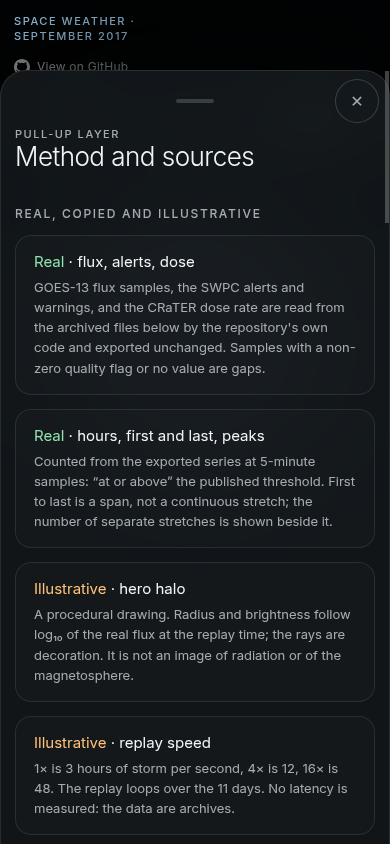
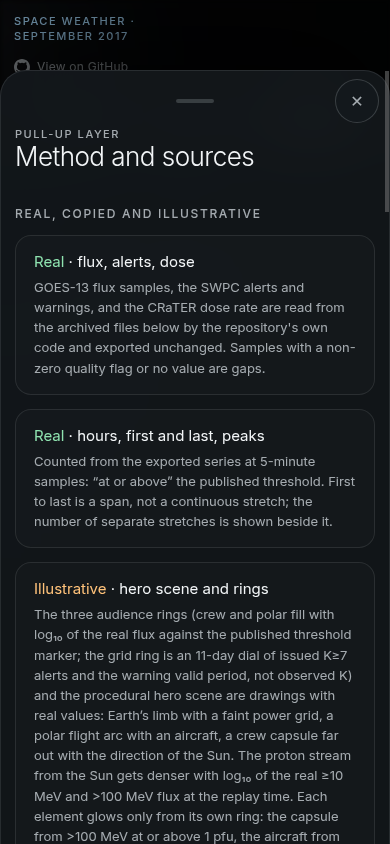
space-weather: return focus to the card trigger, one slot-aligned time for every readout, exact CRaTER maximum; tests and refreshed screenshots

diff --git a/space-weather/web/test_behaviour.js b/space-weather/web/test_behaviour.js
@@ -51,6 +51,49 @@ async function fresh(b,url,ms){await b.goto('about:blank',150);await b.goto(url,
   ok(await b.ev(`document.querySelector('#sheet').hasAttribute('inert')&&document.querySelector('#method').classList.contains('open')`),'card under an open layer is inert');
   await b.ev(`document.querySelector('#method .x').click()`); await sleep(900);
   ok(await b.ev(`(()=>{const s=document.querySelector('#sheet');return s.classList.contains('open')&&!s.hasAttribute('inert')})()`),'closing the layer returns to a live card');
+  // ---- focus returns to the trigger inside an audience card when a layer opened from it is closed (card was inert underneath)
+  for(const id of ['timeline','alerts','method']){
+    await fresh(b,FILE+'#?paused');
+    await b.ev(`document.querySelector('.aud[data-aud="crew"]').click()`); await sleep(800);
+    const sel=`#sheet [data-open="${id}"]`;
+    const has=await b.ev(`!!document.querySelector('${sel}')`);
+    if(!has){console.log('skip: no '+id+' trigger in the card');continue}
+    for(const how of ['x','scrim','escape']){
+      await b.ev(`document.querySelector('${sel}').focus();document.querySelector('${sel}').click()`); await sleep(800);
+      ok(await b.ev(`document.querySelector('#sheet').hasAttribute('inert')&&document.querySelector('#${id}').classList.contains('open')`),id+' from the card ('+how+'): card is inert while the layer is open');
+      if(how==='x')await b.ev(`document.querySelector('#${id} .x').click()`);
+      else if(how==='scrim')await b.ev(`document.querySelector('#scrim').click()`);
+      else{await b.send('Input.dispatchKeyEvent',{type:'keyDown',key:'Escape',code:'Escape',windowsVirtualKeyCode:27});await b.send('Input.dispatchKeyEvent',{type:'keyUp',key:'Escape',code:'Escape',windowsVirtualKeyCode:27})}
+      await sleep(800);
+      ok(await b.ev(`document.activeElement===document.querySelector('${sel}')&&!document.querySelector('#sheet').hasAttribute('inert')`),id+' closed with '+how+': focus is back on the card trigger and the card is live again');
+    }
+  }
+  // ---- the scrim is visible and clickable while a layer is open, and clicking the gutter dismisses it
+  await fresh(b,FILE+'#?paused');
+  ok(await b.ev(`(()=>{const s=getComputedStyle(document.querySelector('#scrim'));return +s.opacity===0&&s.pointerEvents==='none'})()`),'scrim is invisible and not clickable with no layer open');
+  for(const id of ['timeline','alerts','method']){
+    await b.ev(`document.querySelector('.nav button[data-v="${id}"]').click()`); await sleep(900);
+    const sc=await b.ev(`(()=>{const s=getComputedStyle(document.querySelector('#scrim')),r=document.querySelector('#${id}').getBoundingClientRect();return {o:+s.opacity,pe:s.pointerEvents,gx:Math.floor(r.left/2),top:document.elementFromPoint(Math.max(2,Math.floor(r.left/2)),450)===document.querySelector('#scrim'),left:r.left}})()`);
+    ok(sc.o===1&&sc.pe==='auto'&&sc.left>20&&sc.top,id+': scrim is visible (opacity 1), clickable and is the element in the gutter '+JSON.stringify(sc));
+    await b.send('Input.dispatchMouseEvent',{type:'mousePressed',x:sc.gx,y:450,button:'left',clickCount:1});await b.send('Input.dispatchMouseEvent',{type:'mouseReleased',x:sc.gx,y:450,button:'left',clickCount:1}); await sleep(900);
+    ok(await b.ev(`!document.querySelector('#${id}').classList.contains('open')&&!document.body.classList.contains('layer-open')`),id+': a real click in the gutter dismisses the layer');
+  }
+  // ---- one slot-aligned time for the label, flux rings, grid ring and scene (alerts flip exactly on a slot boundary)
+  const storm=JSON.parse(require('fs').readFileSync(path.resolve(__dirname,'data/storm.json'),'utf8'));
+  const T0=Date.parse(storm.series.t0), STEP=storm.series.step_seconds, iss=storm.alerts.grid_issued.map(a=>(Date.parse(a.start)-T0)/1000);
+  const first=iss[0]; const hh=[first/3600-0.2,first/3600-0.1,95.4,first/3600+0.02,iss[1]/3600-0.03,iss[1]/3600+0.03,iss[2]/3600-0.01,iss[2]/3600+0.04];
+  for(const h of hh){
+    await fresh(b,FILE+'#?h='+h.toFixed(4)+'&paused',700);
+    const raw=Math.max(0,Math.min(storm.series.slots*STEP,h*3600)), slot=Math.min(storm.series.slots-1,Math.round(raw/STEP)), ts=slot*STEP, expect=iss.filter(t=>t<=ts).length;
+    const got=await b.ev(`(()=>{const g=document.querySelector('.aud[data-aud="grid"]');return {ring:+g.dataset.value,lit:__weather.scene.grid.lit,label:document.querySelector('#r-time').textContent,t:__weather.t}})()`);
+    const lab=new Date(T0+ts*1000).toISOString().slice(0,16);
+    ok(got.ring===expect&&got.lit===expect&&got.label.replace(' ','T').slice(0,16)===lab,'?h='+h.toFixed(3)+': ring '+got.ring+', scene '+got.lit+', label '+got.label+' all agree with slot time (expected '+expect+' alerts at '+lab+')');
+  }
+  await fresh(b,FILE+'#?h=95.4&paused',700);
+  ok(await b.ev(`document.querySelector('#r-time').textContent.startsWith('2017-09-07 23:25')&&document.querySelector('.aud[data-aud="grid"]').dataset.value==='1'`),'?h=95.4: the label shows 23:25 and the grid ring already counts the first K>=7 alert');
+  // ---- CRaTER maximum is shown without rounding away the .75
+  await b.ev(`document.querySelector('.aud[data-aud="crew"]').click()`); await sleep(800);
+  ok(await b.ev(`document.querySelector('#sheet').textContent.includes('22,968.75')&&!document.querySelector('#sheet').textContent.includes('22,969')`),'crew card shows the CRaTER maximum as 22,968.75 µGy/h, not 22,969');
   // ---- playback: advances, speeds differ, pause holds, loop wraps and reaches the last sample
   await fresh(b,FILE+'#?h=0');
   const t1=await b.ev('__weather.t'); await sleep(1500); const t2=await b.ev('__weather.t');

diff --git a/space-weather/web/index.html b/space-weather/web/index.html
@@ -306,6 +306,7 @@ var MON=['Jan','Feb','Mar','Apr','May','Jun','Jul','Aug','Sep','Oct','Nov','Dec'
 
 /* ---------------- data access (n/a-safe) ---------------- */
 function slotAt(t){return Math.max(0,Math.min(SLOTS-1,Math.round(t/STEP)))}
+function snap(t){return SLOTS?slotAt(t)*STEP:t} // every readout and the scene use the nearest 5-minute slot, never the raw clock
 function fluxAt(arr,t){if(!SLOTS)return null; var v=arr[slotAt(t)]; return ok(v)?v:null}
 function doseAt(t){ // last CRaTER sample at or before t; null if none within 2 h
   var lo=0,hi=DT.length-1,best=-1; while(lo<=hi){var m=(lo+hi)>>1; if(DT[m]<=t){best=m;lo=m+1}else hi=m-1}
@@ -328,11 +329,12 @@ function setSeg(){var s=clock.speed,bs=$$('#seg button'),on=bs.filter(function(b
 /* ---------------- readouts ---------------- */
 function setT(id,html){var e=$('#'+id); if(e._h!==html){e._h=html;e.innerHTML=html}}
 function readouts(t,pfx){
+  t=snap(t);
   var f10=fluxAt(G10,t), f100=fluxAt(G100,t), d=doseAt(t);
   var tm=iso(T0+slotAt(t)*STEP*1000);
   if(pfx==='r'){setT('r-time',SLOTS?tm:NA);setT('stamp',SLOTS?tm.replace('Z',' UTC'):'n/a');setT('r-dose-age',d?'· sample '+Math.round(d.age/60)+' min earlier':'');}
   else setT('t-time',SLOTS?tm:NA);
-  setT(pfx+'-f10',fnum(f10));setT(pfx+'-f100',fnum(f100));setT(pfx+'-dose',d?fnum(d.v):NA);
+  setT(pfx+'-f10',fnum(f10));setT(pfx+'-f100',fnum(f100));setT(pfx+'-dose',d?fnum(d.v,Math.abs(d.v)>=1000?2:null):NA);
 }
 var hoverT=null;
 function tick(t){
@@ -494,7 +496,7 @@ function substations(){var gp=LY.gp,out=[],n=7,wd=gp.r.r-gp.r.l-30;
   for(var i=0;i<n;i++){var x=gp.r.l+15+wd*(i+.5)/n+(rnd(i+70)-.5)*8; var y=limbY(x)+Math.max(10,gp.dy+8)+ (i%3)*9 + rnd(i+80)*8; out.push({x:x,y:Math.min(gp.r.b-8,y)})}
   return out}
 function drawHero(t){
-  if(!LY)return; var c=hc, ph=(REDUCED||STATIC)?.37:performance.now()/1000;
+  if(!LY)return; t=snap(t); var c=hc, ph=(REDUCED||STATIC)?.37:performance.now()/1000;
   c.setTransform(dpr,0,0,dpr,0,0); c.clearRect(0,0,hw,hh);
   c.drawImage(layer,0,0,hw,hh);
   var f10=fluxAt(G10,t), f100=fluxAt(G100,t);
@@ -613,7 +615,7 @@ function gridGauge(t){
   n.b.dataset.value=have?String(cnt):'n/a';
   gset(n,'aria',state+rv,function(){n.b.setAttribute('aria-label','Power grid: '+(have?cnt+' of '+M.iss.length+' issued K at or above 7 alerts so far; '+(state==='alert'?'an alert is issued and a K at or above 7 warning is valid':state==='warning'?'a K at or above 7 warning is valid, no alert issued yet':state==='ended'?'the warning valid period has ended':'no K at or above 7 product yet')+'. These are issued products, not observed K.':'n/a, no issued products')+' Open the power grid card.')});
 }
-function gauges(t){gauge('crew',t);gauge('polar',t);gridGauge(t)}
+function gauges(t){t=snap(t);gauge('crew',t);gauge('polar',t);gridGauge(t)}
 
 /* ---------------- charts ---------------- */
 var CH={ml:44,mr:10};
@@ -730,7 +732,7 @@ function renderCard(key){
     var ds=A.dose||{};
     html+='<div class="box" style="margin-top:12px"><div class="label">Dose, side by side · not derived from flux</div><div class="extras" style="grid-template-columns:repeat(2,1fr);margin-top:10px">'
      +stat(0,'Lowest CRaTER dose rate',ok(ds.min)?fnum(ds.min,1)+' µGy/h':NA,ftime(ds.min_time))
-     +stat(0,'Highest CRaTER dose rate',ok(ds.max)?fnum(ds.max,0)+' µGy/h':NA,ftime(ds.max_time))+'</div>'
+     +stat(0,'Highest CRaTER dose rate',ok(ds.max)?fnum(ds.max,2)+' µGy/h':NA,ftime(ds.max_time))+'</div>'
      +'<p style="margin-top:10px">CRaTER-D1D2 absorbed dose rate, copied from RadLab ('+esc((DOSE.source_file)||'n/a')+'). Measured on LRO in lunar orbit: not at a flight altitude, in a crew vehicle or on the ground. The hour-scale CRaTER samples are not matched to the 5-minute flux; they are only shown together on the timeline, on separate axes.</p></div>';
   }
   html+='<div class="box sentence"><div class="label">The project’s own sentence</div><p style="margin-top:8px">'+esc(A.sentence||'')+(A.sentence?'':NA)+'</p></div>';
@@ -758,7 +760,7 @@ function syncInert(){var sh=$('#sheet');if(sh.classList.contains('open')){if(doc
 function openLayer(id,silent){ closeLayers(true); document.body.classList.add('layer-open'); panels.open($('#'+id),'[data-close]'); syncInert(); setNav(id);
   if(id==='timeline')requestAnimationFrame(function(){drawTimeline();readouts(clock.t,'t')});
   if(!silent)setHash(id)}
-function closeLayers(silent){ var any=$$('.layer.open').length; document.body.classList.remove('layer-open'); if(any&&LY)drawHero(clock.t); $$('.layer').forEach(function(l){panels.close(l,silent)}); syncInert(); setNav(null);
+function closeLayers(silent){ var any=$$('.layer.open').length; document.body.classList.remove('layer-open'); if(any&&LY)drawHero(clock.t); syncInert(); /* un-inert the card first so focus can return to a trigger inside it */ $$('.layer').forEach(function(l){panels.close(l,silent)}); syncInert(); setNav(null);
   if(!silent&&any)setHash(sel?'audience/'+sel:'')}
 $$('[data-close]').forEach(function(b){b.onclick=function(){closeLayers()}});
 $('#scrim').onclick=function(){closeLayers()};
